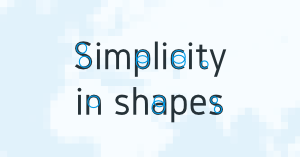
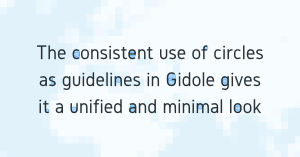
bigger font, new screenshots

Changed region(s): [[0.12, 0.2548, 0.9, 0.7898]]

diff --git a/styles.css b/styles.css
@@ -211,7 +211,7 @@ noscript {
   max-width:760px;
   margin:0 auto;
   box-sizing:border-box;
-  padding:100px 30px 10vw
+  padding:6em 30px 10vw
 }
 input[type=checkbox],input[type=radio] {
   vertical-align:middle;
@@ -399,9 +399,9 @@ h2,h3 {
 
 /*Typography*/
 body {
-  font-size:3.2654vw;
-  letter-spacing:0.3px;
-  line-height:1.5em;
+  font-size:3.53vw;
+  letter-spacing:0.5px;
+  line-height:1.6em;
 }
 
 h1,h2,h3 {
@@ -417,10 +417,10 @@ h1 {
 
 h2, .charmap {
   letter-spacing:-0.04em;
-  font-size:8.5709vw;
-  line-height:1.2em;
-  margin-top:1.18em;
-  margin-bottom:-.66em;
+  font-size:2.62em;
+  line-height:1.23em;
+  margin-top:0.7em;
+  margin-bottom:-.6em;
   margin-left: -0.03em;
 }
 .charmap {
@@ -428,17 +428,17 @@ h2, .charmap {
 }
 
 h3 {
-  font-size:5.3065vw;
-  line-height:1.8461538462em;
-  margin-top:1.24em;
-  margin-bottom:-1.24em;
+  font-size:1.618em;
+  line-height:0.99em;
+  margin-top:1.38em;
+  margin-bottom:-0.84em;
   margin-left: -0.02em;  
   letter-spacing:0;
 }
 
 blockquote,ol,p,pre,table,ul {
-  margin-top:1.5em;
-  margin-bottom:1.5em;
+  margin-top:1.6em;
+  margin-bottom:1.6em;
 }
 .strike {
   text-decoration: line-through;
@@ -492,23 +492,16 @@ blockquote,ol,p,pre,table,ul {
 
 
 /*Slideshow*/
-.slideshow {
-  position: relative;
-}
 .slideshow p {
-  margin-right: 180px;
-}
-.slideshow .slideimg {
-  position: absolute;
-  top: .2em;
-  right: 0px;
-  width: 150px;
+  margin-bottom: 0.8em;
 }
 .slideshow .slideimg img {
-  max-width: 100%;
+  max-width: 30%;
+  cursor: -webkit-zoom-in;  
+  cursor: zoom-in;  
 }
-.slideshow .slideimg img:first-child {
-  margin-bottom: 0.5em;
+.slideshow .slideimg img:not(:first-child) {
+  margin-left: 5%;
 }
 
 
@@ -540,8 +533,8 @@ blockquote,ol,p,pre,table,ul {
   z-index: 101;
 }
 .overlay div {
-  transform: scale(0.8);
-  -webkit-transform: scale(0.8);
+  transform: scale(0.9);
+  -webkit-transform: scale(0.9);
   transition: 0.3s cubic-bezier(.6, 0, .4, 1);
 }
 .overlay h2 {
@@ -550,26 +543,17 @@ blockquote,ol,p,pre,table,ul {
 .overlay a {
   color:hsl(200, 100%, 45%) !important;
 }
+.overlay.gallery {
+  cursor: -webkit-zoom-out;  
+  cursor: zoom-out;  
+}
 .overlay img {
-  max-height: 100%;
-  max-width: 100%;
+  max-height: 95%;
+  max-width: 95%;
   margin: 0 auto;
   height: auto;
   display: block;
-  cursor: -webkit-zoom-out;  
-  cursor: zoom-out;
-  -webkit-filter: blur(5px);
-  filter: blur(5px);
   transition: 0.3s cubic-bezier(.6, 0, .4, 1);
-}
-.slideimg img {
-  cursor: -webkit-zoom-in;  
-  cursor: zoom-in;
-  transition: 0.2s;
-}
-.slideimg img:hover {
-  -webkit-filter: blur(1px);
-  filter: blur(1px);
 }
 .overlay.gallery div {
   max-height: 100%;
@@ -578,8 +562,6 @@ blockquote,ol,p,pre,table,ul {
 .overlay.visible div, .overlay.visible img {
   transform: scale(1);
   -webkit-transform: scale(1);
-  -webkit-filter: blur(0px);
-  filter: blur(0px);  
 }
 .overlay.visible {
   opacity: 1;
@@ -606,8 +588,8 @@ blockquote,ol,p,pre,table,ul {
   -webkit-justify-content:center;
       -ms-flex-pack:center;
           justify-content:center;
-  -webkit-animation:fade 1s ease forwards 0.5s;
-          animation:fade 1s ease forwards 0.5s;
+  -webkit-animation:fade 4s ease forwards 0.5s;
+          animation:fade 4s ease forwards 0.5s;
   padding-bottom:150px;
 }
 
@@ -699,28 +681,23 @@ blockquote,ol,p,pre,table,ul {
 
 @media all and (min-width:740px) {
   body {
-    font-size:24px
+    font-size:26px
   }
 
   h1 {
     font-size:300px
   }
-
-  .charmap,h2 {
-    font-size:63px
-  }
-
-  h3 {
-    font-size:39px
-  }
 }
 
 @media all and (max-width:460px) {
   body {
-    font-size: 14px;
+    font-size: 16px;
   }
-  h3 { 
-    font-size: 23px;
+  h3 {
+    font-size:5.71vw;
+  }
+  .charmap {
+    font-size:9.2vw;
   }
   #smallplay {
     display: inline;
@@ -757,4 +734,10 @@ blockquote,ol,p,pre,table,ul {
   }
 }  
 @media all and (max-width:380px) {
+/*
+  h3 { 
+    font-size: 23px;
+  }
+*/
+
 }

diff --git a/index.html b/index.html
@@ -108,7 +108,7 @@
       <div class="slideshow">
         <p>The typefaces are inspired by the classic DIN #1451. The letters are drawn with Euler spirals using circles as guidelines. This gives them a minimal look with the smoothest curves and curve to tangent transitions possible.</p>
         <div class="slideimg">
-          <img id="simplethumb" src="img/GidoleSimpleSmall.png" /><img id="smooththumb" src="img/GidoleSmoothSmall.png" />
+          <img id="simplethumb" src="img/GidoleSimpleSmall.png" /><img id="smooththumb" src="img/GidoleSmoothSmall.png" /><img id="legiblethumb" src="img/GidoleLegibleSmall.png" />
         </div>
       </div>  
 
@@ -141,7 +141,7 @@
       <div contenteditable="true">
         <h3>Characters</h3>
         <p>Some of the >500 characters are shown below</p>
-        <p class="text-center charmap">
+        <p class="charmap">
           A B C D E F G H I J K L M N O P Q R S T U V W X Y Z<br>
           a b c d e f g h i j k l m n o p q r s t u v w x y z<br><br>
           1 2 3 4 5 6 7 8 9 0<br><br>
@@ -168,6 +168,7 @@
     </div>  
     <div class="overlay gallery" id="simple"></div>
     <div class="overlay gallery" id="smooth"></div>
+    <div class="overlay gallery" id="legible"></div>
 
     
     <script src="https://ajax.googleapis.com/ajax/libs/jquery/2.1.3/jquery.min.js"></script>
@@ -213,7 +214,6 @@
 
         $('#simplethumb').on('click touchstart', function() {
           $("#simple").toggleClass("visible");
-          $("#bigimage").attr("scr", $("#bigimage").data("scr"));
         });
         $('#simple').on('click touchstart', function() {
           $("#simple").toggleClass("visible");
@@ -223,6 +223,12 @@
         });
         $('#smooth').on('click touchstart', function() {
           $("#smooth").toggleClass("visible");
+        });
+        $('#legiblethumb').on('click touchstart', function() {
+          $("#legible").toggleClass("visible");
+        });
+        $('#legible').on('click touchstart', function() {
+          $("#legible").toggleClass("visible");
         });
         
         var offset = $( ".social" ).offset();
@@ -245,6 +251,7 @@
       $(window).load(function () {
         $('#smooth').append('<div><img src="img/GidoleSmooth.png"></div>');
         $('#simple').append('<div><img src="img/GidoleSimple.png"></div>');
+        $('#legible').append('<div><img src="img/GidoleLegible.png"></div>');
       });                       
     </script>
   </body>
